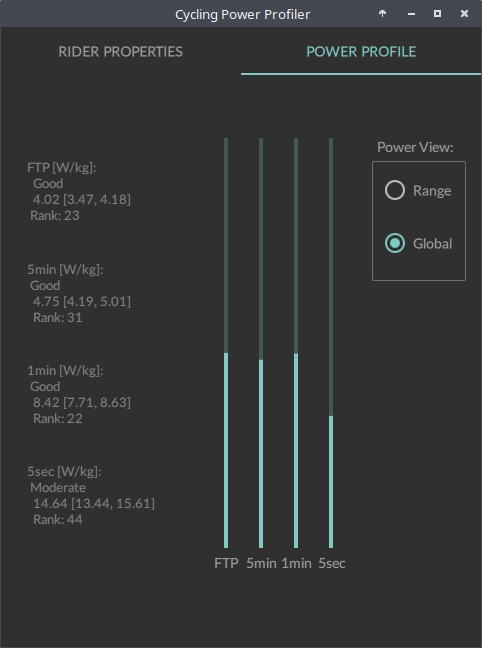
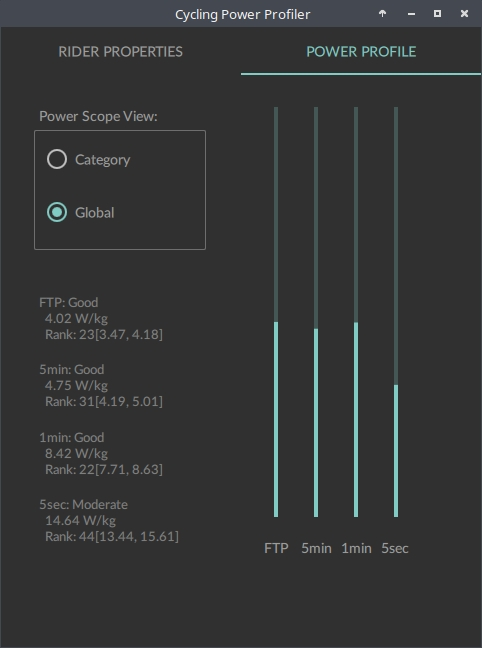
GUI modifications for power profile view

diff --git a/src/gui/Page2Form.ui.qml b/src/gui/Page2Form.ui.qml
@@ -71,8 +71,8 @@ Item {
 
     ProgressBar {
         id: progressBar0
-        x: 20
-        y: 258
+        x: 70
+        y: 227
         width: 410
         height: 20
         to: 6.40
@@ -84,8 +84,8 @@ Item {
 
     ProgressBar {
         id: progressBar1
-        x: 55
-        y: 258
+        x: 110
+        y: 227
         width: 410
         height: 20
         to: 7.60
@@ -97,8 +97,8 @@ Item {
 
     ProgressBar {
         id: progressBar2
-        x: 90
-        y: 258
+        x: 150
+        y: 227
         width: 410
         height: 20
         to: 11.50
@@ -110,8 +110,8 @@ Item {
 
     ProgressBar {
         id: progressBar3
-        x: 125
-        y: 258
+        x: 190
+        y: 227
         width: 410
         height: 20
         from: 10.17
@@ -123,38 +123,40 @@ Item {
 
     Label {
         id: label
-        x: 213
-        y: 479
+        x: 263
+        y: 464
         text: qsTr("FTP")
     }
 
     Label {
         id: label1
-        x: 245
-        y: 479
+        x: 300
+        y: 464
         text: qsTr("5min")
     }
 
     Label {
         id: label2
-        x: 280
-        y: 479
+        x: 340
+        y: 464
         text: qsTr("1min")
     }
 
     Label {
         id: label3
-        x: 317
-        y: 479
+        x: 380
+        y: 464
+        width: 31
+        height: 17
         text: qsTr("5sec")
     }
 
     Pane {
         id: pane
-        x: 21
-        y: 63
-        width: 156
-        height: 410
+        x: 33
+        y: 206
+        width: 172
+        height: 275
         padding: 5
         rightPadding: 5
         leftPadding: 5
@@ -168,40 +170,39 @@ Item {
             anchors.fill: parent
             Text {
                 color: "grey"
-                text: qsTr(
-                          "FTP [W/kg]:\n  Good\n  4.02 [3.47, 4.18]\n Rank: 23")
+                text: qsTr("FTP: Good\n  4.02 W/kg\n  Rank: 23[3.47, 4.18]")
             }
             Text {
                 color: "grey"
-                text: qsTr("5min [W/kg]:\n Good\n  4.75 [4.19, 5.01]\n  Rank: 31")
+                text: qsTr("5min: Good\n  4.75 W/kg\n  Rank: 31[4.19, 5.01]")
             }
             Text {
                 color: "grey"
-                text: qsTr("1min [W/kg]:\n Good\n  8.42 [7.71, 8.63]\n  Rank: 22")
+                text: qsTr("1min: Good\n  8.42 W/kg\n  Rank: 22[7.71, 8.63]")
             }
             Text {
                 color: "grey"
-                text: qsTr("5sec [W/kg]:\n Moderate\n  14.64 [13.44, 15.61]\n  Rank: 44")
+                text: qsTr("5sec: Moderate\n  14.64 W/kg\n  Rank: 44[13.44, 15.61]")
             }
         }
     }
 
     GroupBox {
         id: groupBox
-        x: 371
-        y: 63
-        width: 94
+        x: 33
+        y: 32
+        width: 172
         height: 143
         padding: 5
         enabled: true
-        title: qsTr("Power View:")
+        title: qsTr("Power Scope View:")
 
         Column {
             spacing: 5
 
             RadioButton {
                 id: radioButton1
-                text: qsTr("Range")
+                text: qsTr("Category")
             }
 
             RadioButton {
